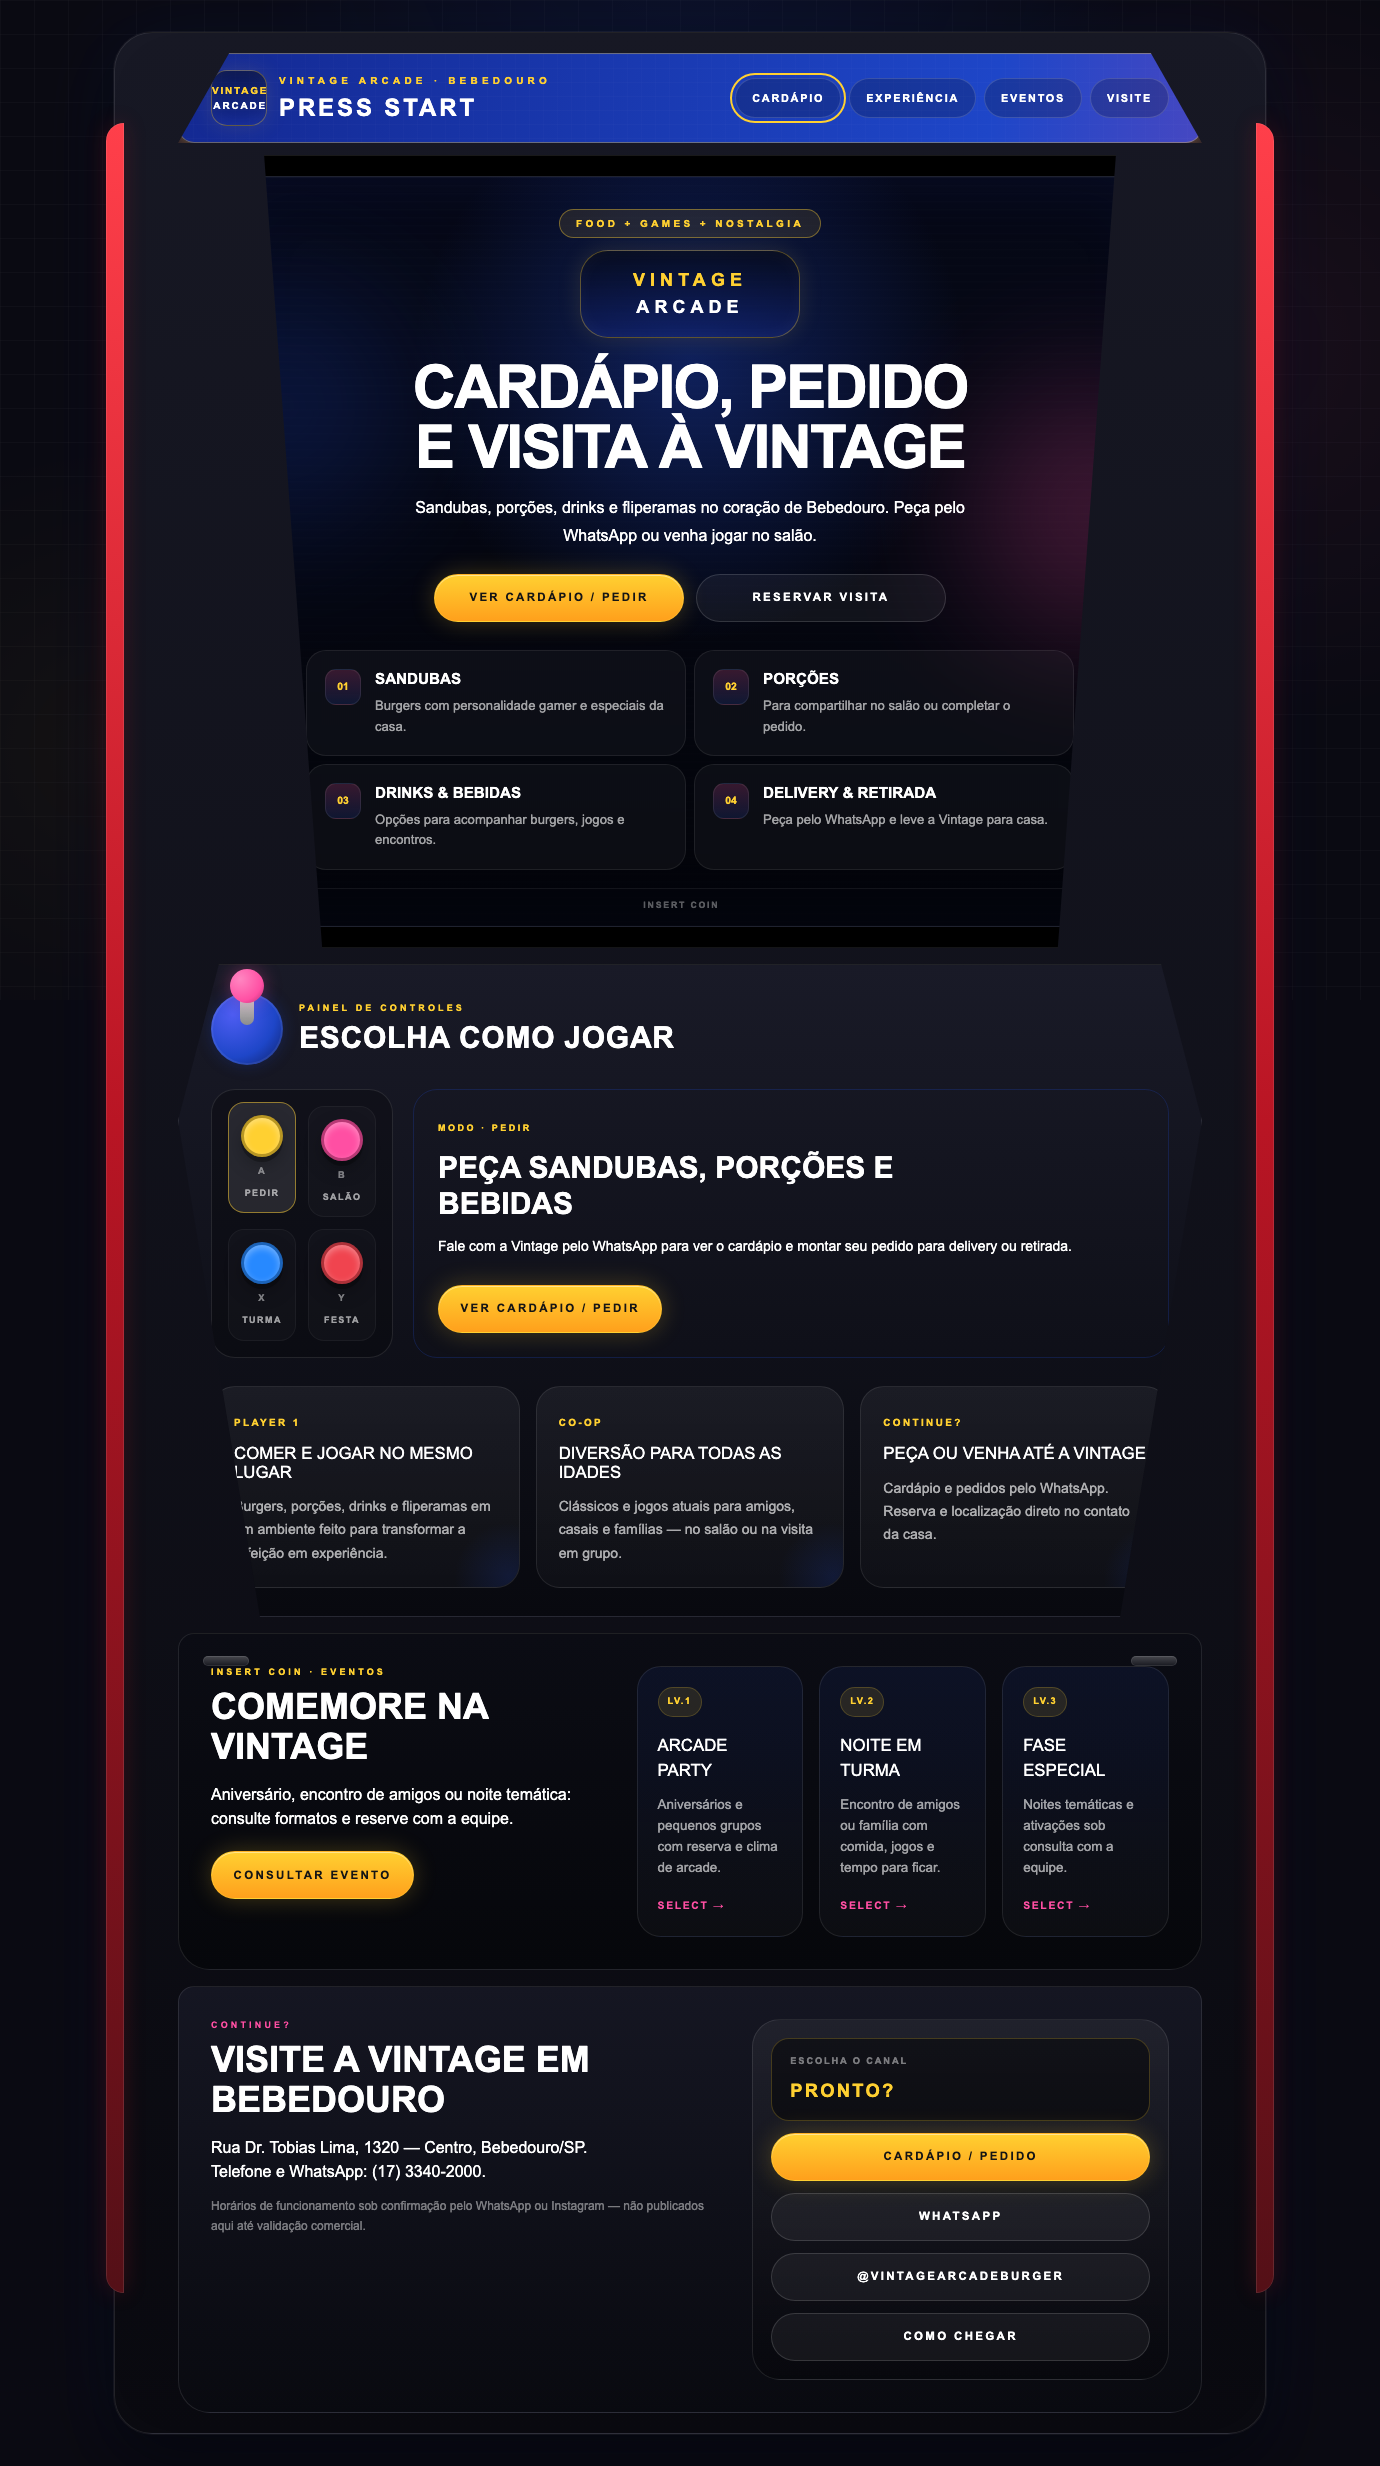
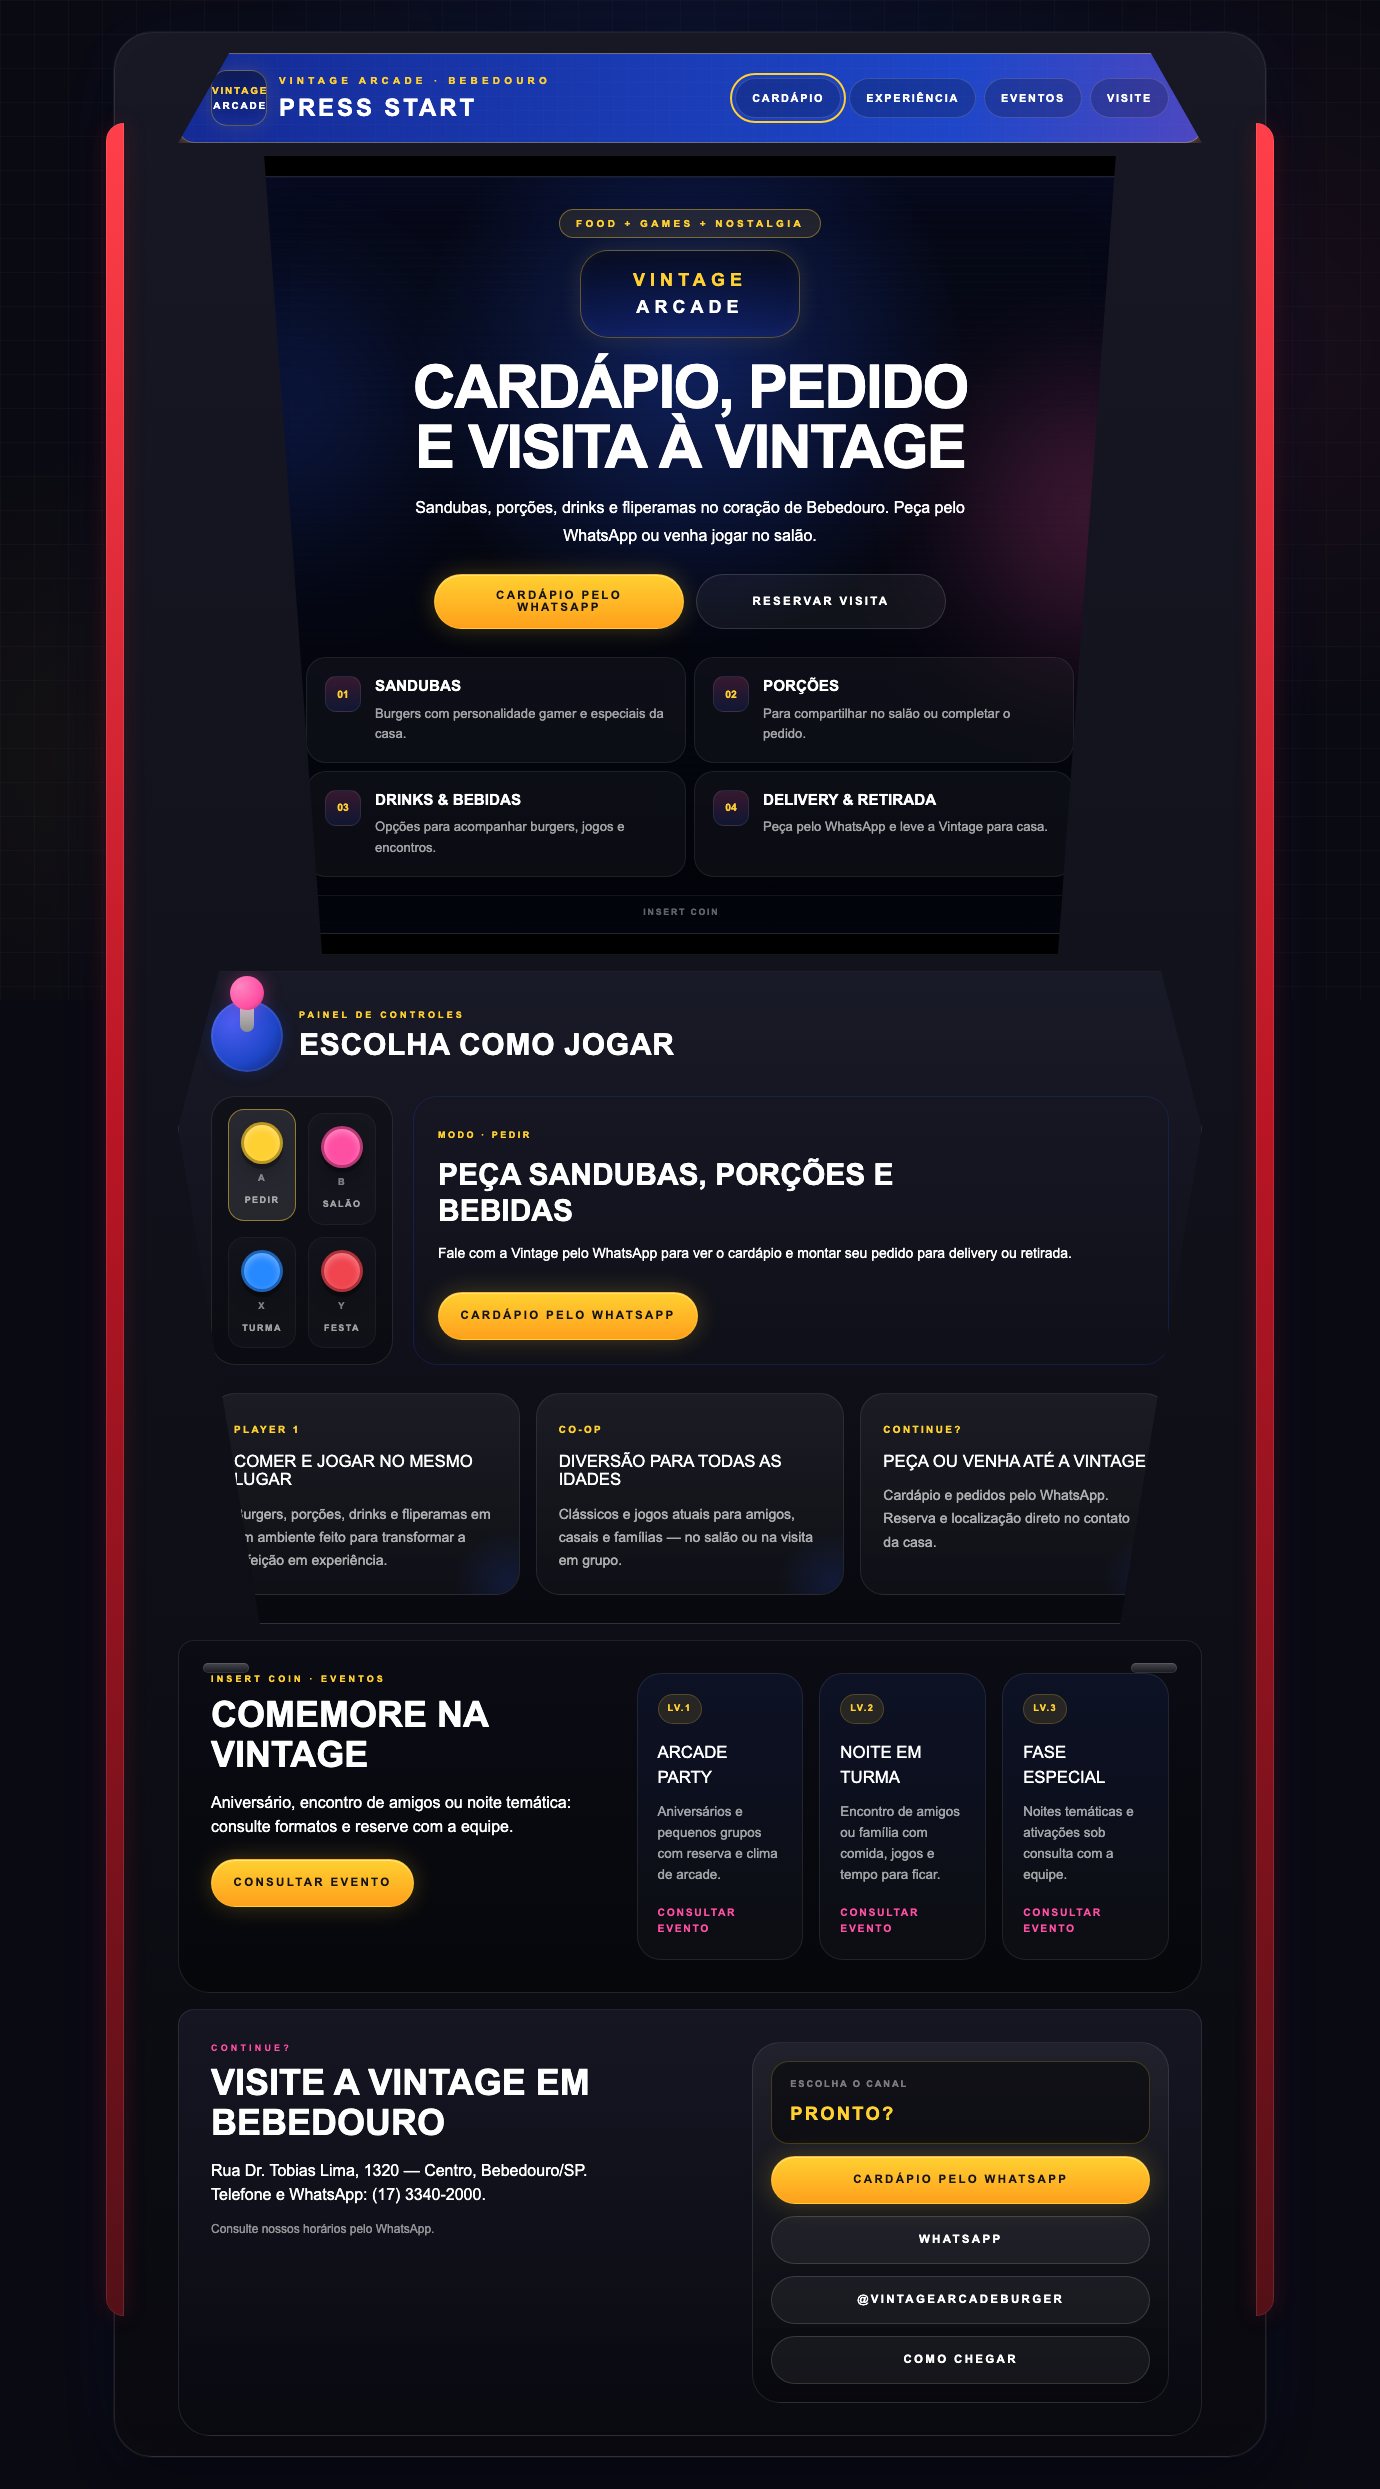
fix(lp): polish WhatsApp CTAs, hours copy, and event links
Replace the internal hours note with a customer-facing WhatsApp prompt,
label menu CTAs as Cardápio pelo WhatsApp, and turn decorative event
SELECT labels into accessible Consultar evento links.

diff --git a/app/page.tsx b/app/page.tsx
@@ -61,9 +61,21 @@ const menuHighlights = [
 ];
 
 const events = [
-  ['Arcade Party', 'Aniversários e pequenos grupos com reserva e clima de arcade.'],
-  ['Noite em turma', 'Encontro de amigos ou família com comida, jogos e tempo para ficar.'],
-  ['Fase especial', 'Noites temáticas e ativações sob consulta com a equipe.']
+  {
+    title: 'Arcade Party',
+    text: 'Aniversários e pequenos grupos com reserva e clima de arcade.',
+    href: `${WHATSAPP}?text=${encodeURIComponent('Oi, quero consultar um Arcade Party / aniversário na Vintage Arcade.')}`
+  },
+  {
+    title: 'Noite em turma',
+    text: 'Encontro de amigos ou família com comida, jogos e tempo para ficar.',
+    href: `${WHATSAPP}?text=${encodeURIComponent('Oi, quero consultar uma Noite em turma na Vintage Arcade.')}`
+  },
+  {
+    title: 'Fase especial',
+    text: 'Noites temáticas e ativações sob consulta com a equipe.',
+    href: `${WHATSAPP}?text=${encodeURIComponent('Oi, quero consultar uma Fase especial / evento temático na Vintage Arcade.')}`
+  }
 ];
 
 export default function HomePage() {
@@ -123,7 +135,7 @@ export default function HomePage() {
 
                     <div className="mt-5 flex w-full max-w-lg flex-col gap-3 sm:mt-6 sm:flex-row sm:justify-center">
                       <a href={MENU_WHATSAPP} target="_blank" rel="noreferrer" className="retro-btn retro-btn-primary flex-1">
-                        Ver cardápio / pedir
+                        Cardápio pelo WhatsApp
                       </a>
                       <a href={VISIT_WHATSAPP} target="_blank" rel="noreferrer" className="retro-btn retro-btn-secondary flex-1">
                         Reservar visita
@@ -200,12 +212,14 @@ export default function HomePage() {
                 </div>
 
                 <div className="grid gap-3 md:grid-cols-3 md:gap-4">
-                  {events.map(([title, text], index) => (
-                    <article key={title} className="event-card event-card-compact">
+                  {events.map((event, index) => (
+                    <article key={event.title} className="event-card event-card-compact">
                       <div className="event-card-level">LV.{index + 1}</div>
-                      <h3>{title}</h3>
-                      <p>{text}</p>
-                      <span>SELECT →</span>
+                      <h3>{event.title}</h3>
+                      <p>{event.text}</p>
+                      <a href={event.href} target="_blank" rel="noreferrer" className="event-card-link">
+                        Consultar evento
+                      </a>
                     </article>
                   ))}
                 </div>
@@ -227,8 +241,8 @@ export default function HomePage() {
                     <br />
                     Telefone e WhatsApp: (17) 3340-2000.
                   </p>
-                  <p className="mt-3 text-xs leading-5 text-white/45">
-                    Horários de funcionamento sob confirmação pelo WhatsApp ou Instagram — não publicados aqui até validação comercial.
+                  <p className="mt-3 text-xs leading-5 text-white/55">
+                    Consulte nossos horários pelo WhatsApp.
                   </p>
                 </div>
 
@@ -238,7 +252,7 @@ export default function HomePage() {
                     <strong>PRONTO?</strong>
                   </div>
                   <a href={MENU_WHATSAPP} target="_blank" rel="noreferrer" className="retro-btn retro-btn-primary w-full text-center">
-                    Cardápio / pedido
+                    Cardápio pelo WhatsApp
                   </a>
                   <a href={GENERIC_WHATSAPP} target="_blank" rel="noreferrer" className="retro-btn retro-btn-secondary w-full text-center">
                     WhatsApp

diff --git a/app/globals.css b/app/globals.css
@@ -472,6 +472,22 @@ a:focus-visible {
 .event-card h4 { margin: 1rem 0 0; font-size: 1.05rem; text-transform: uppercase; }
 .event-card p { margin: .75rem 0 0; color: rgba(255,255,255,.62); font-size: .84rem; line-height: 1.55; }
 .event-card > span { display: inline-block; margin-top: 1.2rem; color: #FF4FA3; font-size: .65rem; font-weight: 900; letter-spacing: .16em; }
+.event-card-link {
+  display: inline-block;
+  margin-top: 1.2rem;
+  color: #FF4FA3;
+  font-size: .65rem;
+  font-weight: 900;
+  letter-spacing: .16em;
+  text-transform: uppercase;
+  text-decoration: none;
+}
+.event-card-link:hover { color: #FFD031; }
+.event-card-link:focus-visible {
+  outline: 2px solid #FFD031;
+  outline-offset: 3px;
+  border-radius: 4px;
+}
 
 @media (max-width: 768px) {
   .arcade-shell::before,

diff --git a/app/components/ArcadeModeSelector.tsx b/app/components/ArcadeModeSelector.tsx
@@ -22,7 +22,7 @@ const modes: Mode[] = [
     label: 'PEDIR',
     title: 'Peça sandubas, porções e bebidas',
     text: 'Fale com a Vintage pelo WhatsApp para ver o cardápio e montar seu pedido para delivery ou retirada.',
-    cta: 'Ver cardápio / pedir',
+    cta: 'Cardápio pelo WhatsApp',
     href: `${WHATSAPP}?text=${encodeURIComponent('Oi, quero ver o cardápio e fazer um pedido na Vintage Arcade.')}`,
     tone: 'yellow'
   },

diff --git a/docs/discovery/lp-homepage-update.md b/docs/discovery/lp-homepage-update.md
@@ -10,7 +10,9 @@ Escopo: homepage / gabinete arcade. Sem provisionamento Railway nesta tarefa.
 - CTA secundário: reserva/visita via WhatsApp existente.
 - Cardápio na tela do gabinete (menos espaço vazio no hero).
 - Identificação textual provisória (`BrandMark`); logo WebP truncado não é carregado.
-- Removidos da publicação: nota Google 4,8 / 540+ avaliações / “desde 2018” / grade de horários (sem validação comercial atual).
+- Removidos da publicação: nota Google 4,8 / 540+ avaliações / “desde 2018” / grade de horários.
+- Na LP, o visitante vê apenas: “Consulte nossos horários pelo WhatsApp.” A aprovação da grade de horários permanece só nesta documentação.
+- CTAs de cardápio rotulados “Cardápio pelo WhatsApp”; cards de evento com link acessível “Consultar evento”.
 - Destinos preservados: `wa.me/551733402000`, Instagram `@vintagearcadeburger`, Maps Tobias Lima 1320, telefone (17) 3340-2000.
 - Sem link de cliente para `/pedido-teste`. Sem URLs inventadas de cardápio/iFood.
 
@@ -19,7 +21,7 @@ Escopo: homepage / gabinete arcade. Sem provisionamento Railway nesta tarefa.
 | Item | Status |
 | --- | --- |
 | Logotipo original íntegro | Pendente (arquivo atual truncado; RIFF 25654 vs 7505 bytes) |
-| Horários de funcionamento | Pendente de aprovação comercial |
+| Horários de funcionamento | Pendente de aprovação comercial (não listados na LP) |
 | Avaliações / rating Google | Pendente de fonte atual |
 | URL oficial de cardápio / iFood | Pendente; WhatsApp permanece canal operacional |
 | Confirmação de endereço/telefone | Mantidos como destinos já existentes; revalidar com o cliente |
